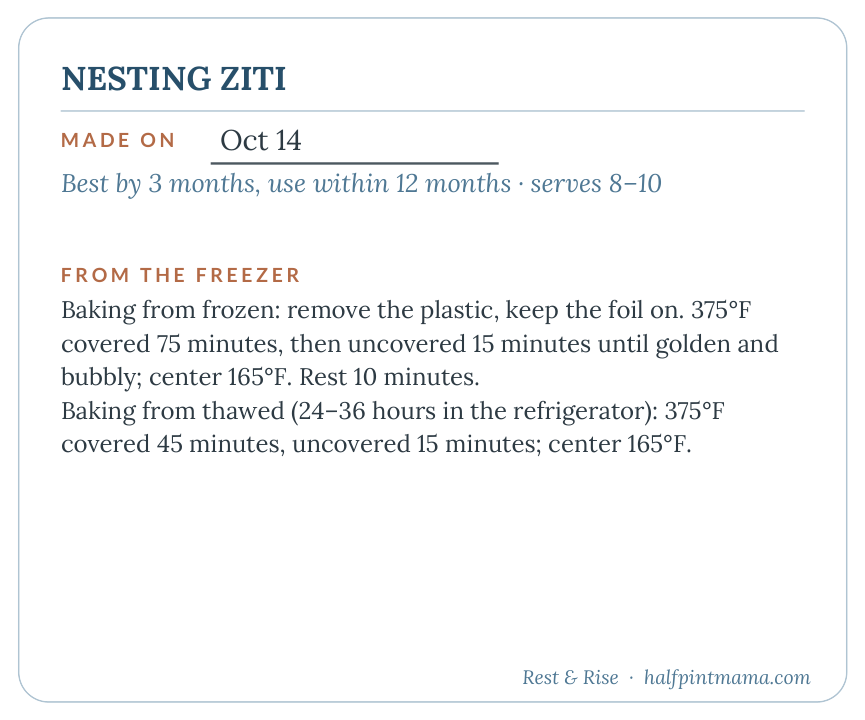
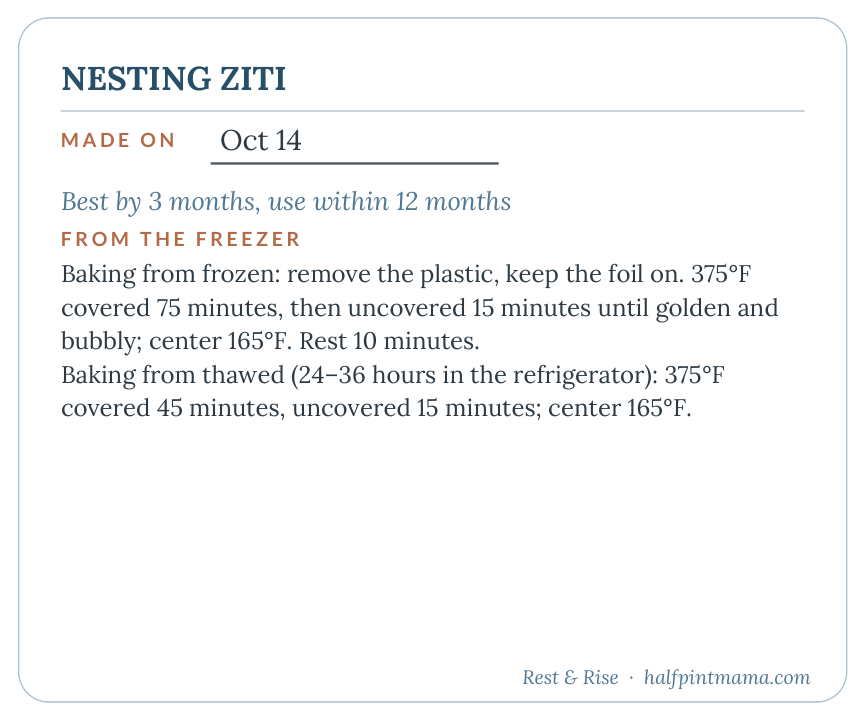
Labels: the best-by line stands alone, no yields
A buyer may portion a batch differently than the book, and the cooker is
already named in the directions.

Changed region(s): [[0.0624, 0.3667, 0.9052, 0.6417], [0.0624, 0.2444, 0.7803, 0.3361]]

diff --git a/src/lib/shop/labels-pdf.ts b/src/lib/shop/labels-pdf.ts
@@ -198,10 +198,8 @@ function labelGeometry(slot: Slot) {
   const rowY = title.y - 18;
   const madeLabelW = 50;
   const made = { x: x + madeLabelW, y: rowY, width: 96, height: 14 };
-  // Two lines: "Best by 3 months, use within 12 months · serves 6–8 · slow cooker".
-  // Viewers set multiline text at about 1.5x the font size, so 30pt holds two
-  // lines of 8.5pt with their padding.
-  const meta = { x, y: rowY - 32, width: w, height: 30 };
+  // One line: "Best by 3 months, use within 12 months".
+  const meta = { x, y: rowY - 20, width: w, height: 15 };
   const dirTop = meta.y - 12; // leaves room for the caption
   const dir = { x, y: card.y + 16, width: w, height: dirTop - (card.y + 16) };
   return { card, x, w, top, title, made, meta, dir, madeLabelW };
@@ -222,7 +220,6 @@ function drawLabelArt(page: PDFPage, slot: Slot, fonts: Fonts, handwrite: boolea
 
   if (handwrite) {
     // Writing guides where the fields would be.
-    page.drawLine({ start: { x: g.x, y: g.meta.y + 11 }, end: { x: g.x + g.w, y: g.meta.y + 11 }, thickness: 0.5, color: STEEL, opacity: 0.7, dashArray: [0.8, 1.6] });
     page.drawLine({ start: { x: g.x, y: g.meta.y - 1 }, end: { x: g.x + g.w, y: g.meta.y - 1 }, thickness: 0.5, color: STEEL, opacity: 0.7, dashArray: [0.8, 1.6] });
     const lines = Math.floor(g.dir.height / 15);
     for (let i = 1; i <= lines; i++) {
@@ -244,7 +241,7 @@ export function previewLabel(page: PDFPage, slot: Slot, fonts: Fonts, name: stri
   const size = Math.min(11, (11 * g.w) / Math.max(g.w, fonts.bold.widthOfTextAtSize(upper, 11)));
   page.drawText(upper, { x: g.x, y: g.title.y + 5, size, font: fonts.bold, color: NAVY });
   page.drawText(made, { x: g.made.x + 3, y: g.made.y + 3, size: 9.5, font: fonts.body, color: INK });
-  paragraph(page, meta, g.x, g.meta.y + g.meta.height - 9, g.w, 8.5, fonts.italic, STEEL_TEXT, 11.5);
+  page.drawText(meta, { x: g.x, y: g.meta.y + 3, size: 8.5, font: fonts.italic, color: STEEL_TEXT });
   paragraph(page, directions, g.x, g.dir.y + g.dir.height - 9, g.w, 8, fonts.body, INK, 11.2);
 }
 
@@ -421,8 +418,7 @@ export async function buildLabelsPdf({ email, createdAt, prefill }: LabelsPdfOpt
       made.updateAppearances(fonts.body);
 
       const meta = form.createTextField(`meta_${n}`);
-      meta.enableMultiline();
-      meta.setMaxLength(120);
+      meta.setMaxLength(80);
       meta.addToPage(page, { ...g.meta, borderWidth: 0, backgroundColor: WHITE, textColor: STEEL_TEXT, font: fonts.italic });
       meta.setFontSize(8.5);
       if (pre) meta.setText(recipeMeta(pre));

diff --git a/src/lib/shop/recipes.ts b/src/lib/shop/recipes.ts
@@ -324,11 +324,11 @@ export const RECIPES: readonly Recipe[] = [
 // Names only, in book order: the dropdown's option list.
 export const BOOK_RECIPES: readonly string[] = RECIPES.map((r) => r.name);
 
-// What the label prints under the name: "Best by 3 months, use within 12
-// months · serves 6–8 · slow cooker". The cooker lives here rather than in the
-// title so the longest titles still fit the recipe box.
+// What the label prints under the name: only the best-by line. Yields are
+// deliberately left off (a buyer may portion a batch differently than the
+// book), and the cooker is already named in the directions.
 export function recipeMeta(r: Recipe): string {
-  return [r.keeps, r.yield, r.cooker].filter(Boolean).join(" · ");
+  return r.keeps;
 }
 
 // The dropdown shows the book title exactly.
